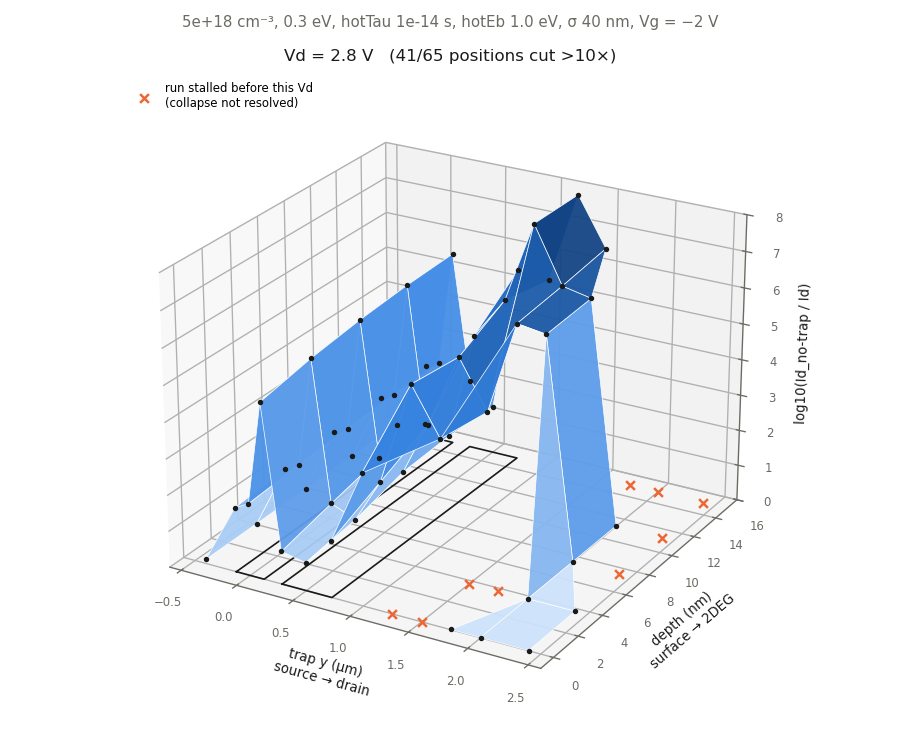
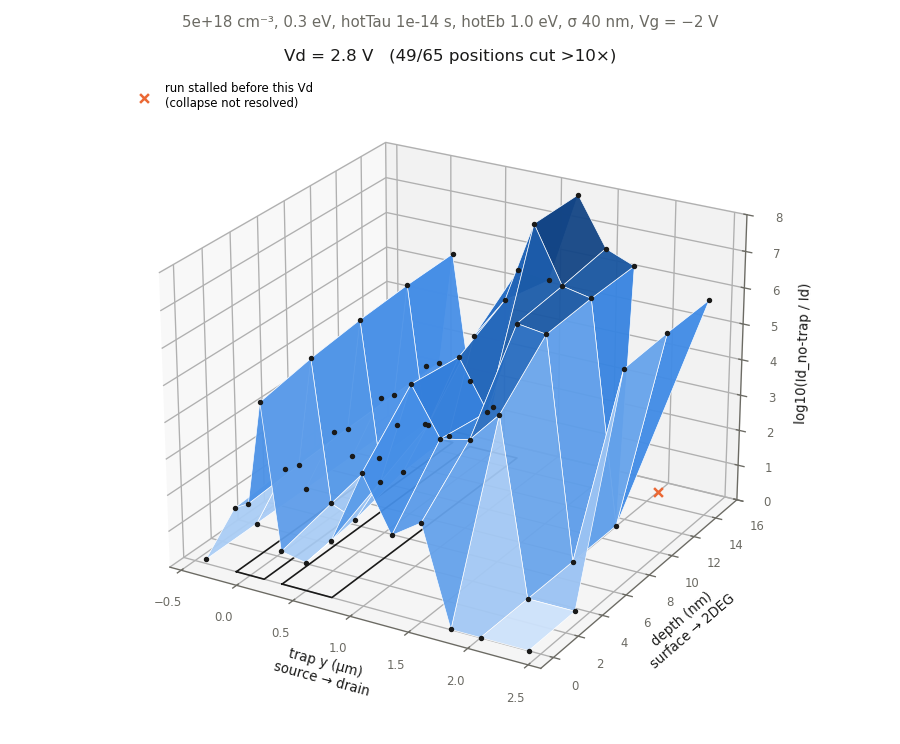
Position-map Te-ramp rescue (job 44452289): 9/11 stalls resolved; surface onset reaches 3.0 V at y=1.75 um
Claude-Session: https://claude.ai/code/session_01T8r4Sbc8W7NUQPpahQmti5

Changed region(s): [[0.4044, 0.3401, 0.8089, 0.8656], [0.7156, 0.711, 0.7467, 0.7419], [0.4356, 0.0618, 0.4667, 0.0927]]

diff --git a/CLAUDE.md b/CLAUDE.md
@@ -264,9 +264,9 @@ Round 3: job 44435511, `pulsedIV_onsetField3.slurm` / `params_onsetField3.txt` (
 
 Round 4 (job 44440027, **cancelled 2026-10-02 by Ian with 44/61 done; not analysed**), `pulsedIV_onsetField4.slurm` / `params_onsetField4.txt`, `results/20261002_onsetField4/`: refine around the 2.3 V device: 0.30 eV / `hotEb` 1.0, `trapPeak` {4.5, 5, 5.5}e18 × `hotTau` {0.8, 1, 1.2}e-14 × `trapMeanY` {0.85, 1.0, 1.15, 1.3, 1.5, 1.7}, plus 0.25 eV / 1.5e-14 / 1.0 at {5.5, 6, 6.5}e18 × y {1.3, 1.7}; + reference (61 tasks). Analyze: `python3 analyze_onset.py results/20261002_onsetField4 onsetField4 trapLevel hotTau trapMeanY trapPeak`.
 
-**Position map for the per-Vd surfaces** (Ian, 2026-10-02): job 44441813, `pulsedIV_posMapLate.slurm`, `results/20261002_posMapLate/`: round-3 best set (0.30 eV / 5e18 / `hotTau` 1e-14 / `hotEb` 1.0, σ 0.04) at depth {0, 3.75, 7.5, 11.25, 15} nm × y {−0.4 … 2.4} µm + ref, Vd 0-3 V. 66/66 finished, 0 crashes, 11 stalled (2.1-3.0 V). `plot_posVd.py results/20261002_posMapLate posMapLate 0.5,1.4,...,3.0` → `figures/posMapLate_grid.png` (10 surfaces, shared z), `figures/posMapLate_frames/Vd_*.png` (GIF frames), `figures/posMapLate_onset.png`; GIF `figures/posMapLate.gif` (0.1 V steps, `make_gif.py`).
+**Position map for the per-Vd surfaces** (Ian, 2026-10-02): job 44441813, `pulsedIV_posMapLate.slurm`, `results/20261002_posMapLate/`: round-3 best set (0.30 eV / 5e18 / `hotTau` 1e-14 / `hotEb` 1.0, σ 0.04) at depth {0, 3.75, 7.5, 11.25, 15} nm × y {−0.4 … 2.4} µm + ref, Vd 0-3 V. 66/66 finished, 0 crashes, 11 stalled (2.1-3.0 V); **Te-ramp rescue** (job 44452289) recovered 9 of 11, leaving 2 stalls (y 2.0 µm, 11.25/15 nm, at 2.9/2.8 V). `plot_posVd.py results/20261002_posMapLate posMapLate 0.5,1.4,...,3.0` → `figures/posMapLate_grid.png` (10 surfaces, shared z), `figures/posMapLate_frames/Vd_*.png` (GIF frames), `figures/posMapLate_onset.png`; GIF `figures/posMapLate.gif` (0.1 V steps, `make_gif.py`).
 - Positions cut >10× vs trap-free: 15 (gate region, off at rest / pinched) through 1.2 V, then 17 / 23 / 30 / 36 / 41 / 43 at 1.4 / 1.6 / 1.8 / 2.0 / 2.2 / 2.4 V.
-- **Onset rises with distance from the gate and reaches farther for traps nearer the 2DEG:** at the surface 1.6 → 2.3 V (y 0.285 → 1.0), at 7.5 nm 1.5 → 2.4 V (y 0.285 → 1.75); collapses beyond that (2.5-3.0 V) are all stalls. Source side (y −0.4, −0.125) and y ≥ 2.0 near the surface: shallow, no collapse. y = 0.125: medium at 0.2 V; y = 0: off at rest.
+- **Onset rises with distance from the gate and reaches farther for traps nearer the 2DEG** (after the rescue): at the surface 1.6 → 2.1 → 2.3 → 2.5 → 2.8 → **3.0 V** at y 0.285 / 0.725 / 1.0 / 1.25 / 1.5 / 1.75 µm, all deep; 7.5 nm deep: 1.5 → 2.4 V (y 0.285 → 1.75) and 2.8 V at y 2.4. Positions cut >10× reach 50/65 by 3 V (was 41 with the stalls). Source side (y −0.4, −0.125) and y ≥ 2.0 near the surface: shallow, no collapse. y = 0.125: medium at 0.2 V; y = 0: off at rest.
 
 ### 10.4 Lessons from the static-mobility era (details in `archive/static_mobility/RESULTS.md`)
 

diff --git a/progress.md b/progress.md
@@ -984,3 +984,8 @@ Submitted **job 44441813** → `results/20261002_posMapLate/`. Polling every 5 m
 ### Work-log dashboard (Ian's request), 2026-10-02
 - Published a private page with the work so far, one page per day (Sep 22-23 … Oct 2), each with what was done, what needed work (status pills: fixed / open / in progress / noted), and example figures; overview page with status tiles, open items and a timeline: https://claude.ai/artifact/7gwNdzD3SysL7TP9swRkEd (snapshot as of ~13:45, stall rescue 15/30 at that time).
 - Dashboard source moved into the repo (`dashboard/`, republished to the same URL as version 2); CLAUDE.md §12 now has the "wrap up for the day" update procedure.
+
+### Te-ramp rescue: position map done (job 44452289)
+- 11/11 finished, 0 crashes/cores: **9 rescued**, 2 gave up again (y 2.0 µm at 11.25/15 nm depth, stalls at 2.9/2.8 V; the ramp step fell below its 0.002 floor at full current).
+- Position map now: deep 33, medium 10, shallow 15, off 5, stalled 2. **Surface traps collapse from 1.6 V (y 0.285 µm) to 3.0 V (y 1.75 µm), all deep**; 50/65 positions cut >10× by 3 V (was 41). Figures (`posMapLate_grid.png`, `posMapLate_onset.png`) and GIF regenerated.
+- Round-3 rescue (job 44452288): 15/19 done so far (15 rescued, 3 gave up), 4 still running.
